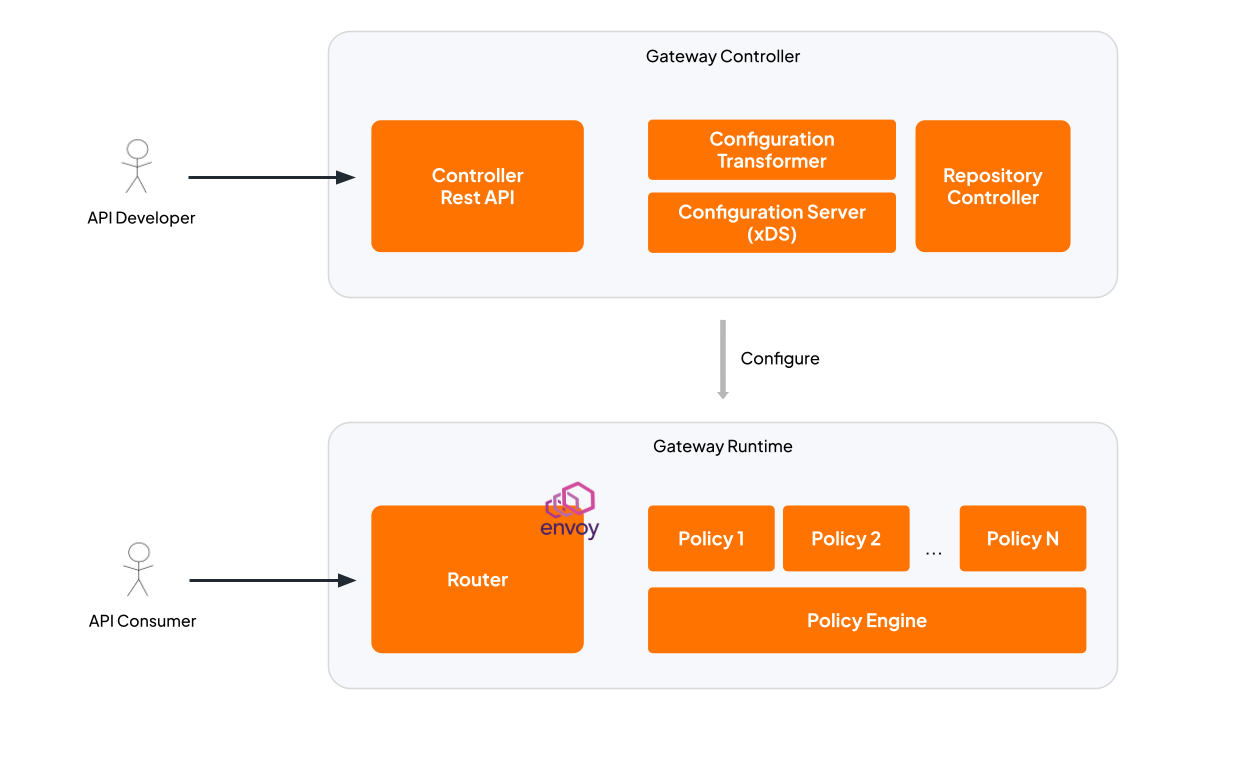
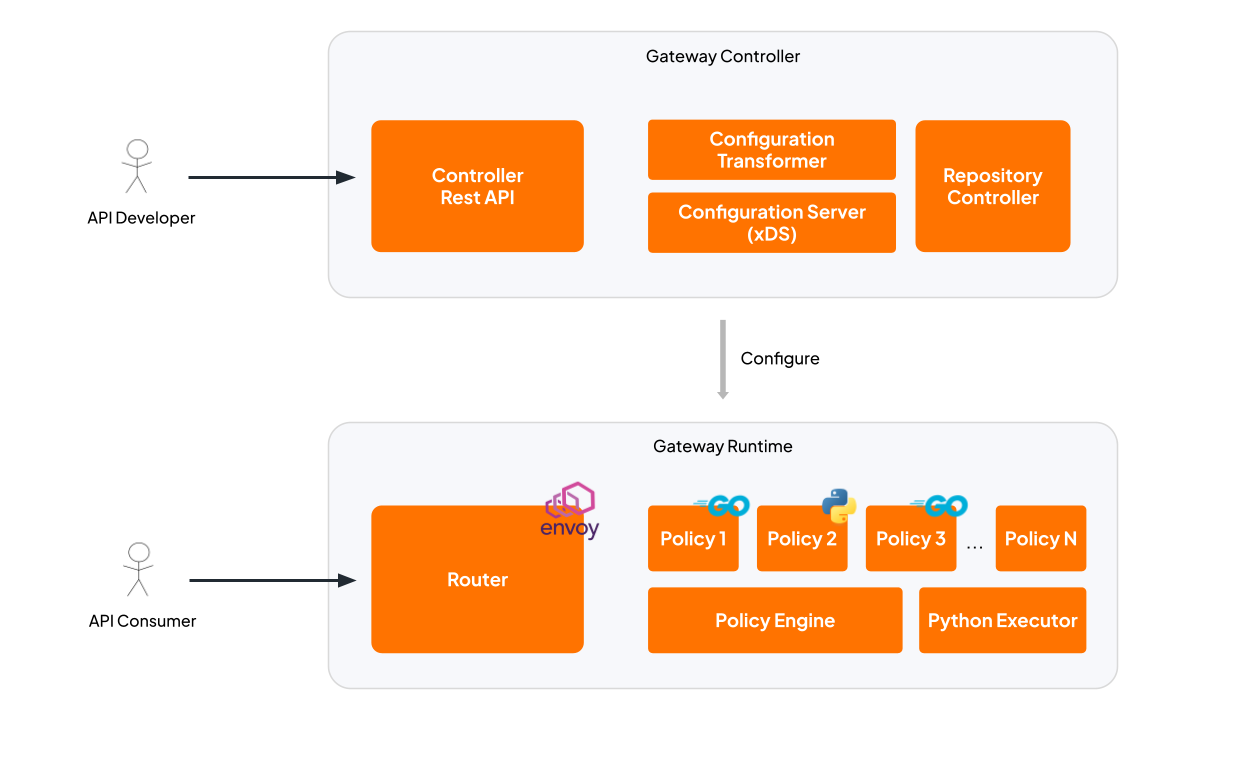
Add Python Executor and policy dev section
Document the new Python Executor as a Gateway Runtime sub-component for executing Python-based policies and add a Policy Development section that explains dual-language policy support (Go for compiled, high-performance policies; Python for dynamic AI/ML and complex transformations). Also update the gateway architecture image to reflect the new component.

Changed region(s): [[0.5222, 0.6194, 0.8909, 0.8361]]

diff --git a/docs/gateway/architecture.md b/docs/gateway/architecture.md
@@ -5,9 +5,10 @@
 The API Gateway consists of two main components: **Gateway Controller** and **Gateway Runtime**.
 
 - **Gateway Controller** is the control plane that manages API configurations and pushes them to the Gateway Runtime via the xDS protocol.
-- **Gateway Runtime** is the data plane that processes API traffic. It contains two sub-components:
+- **Gateway Runtime** is the data plane that processes API traffic. It contains three sub-components:
   - **Router** (Envoy proxy) — handles traffic routing, load balancing, and TLS termination.
   - **Policy Engine** — an ext_proc filter that executes request/response policies. Policies are compiled into the Policy Engine binary at image build time by the Gateway Builder.
+  - **Python Executor** — a dedicated runtime component that dynamically evaluates Python-based policies, allowing developers to leverage the extensive Python ecosystem for custom logic.
 
 The Gateway Controller configures the Gateway Runtime by pushing API and route configurations through xDS. When a request arrives, the Router forwards it to the Policy Engine for policy evaluation, then routes it to the upstream backend.
 
@@ -15,6 +16,13 @@ The Gateway Controller configures the Gateway Runtime by pushing API and route c
 
 ![Gateway Architecture](../images/gateway-architecture.png)
 <!-- image source: https://docs.google.com/drawings/d/1pgADdQNpNcvLrLVvV1fx2hxQOb3syoU0DEBhJd2N6Aw/edit?usp=sharing -->
+
+### Policy Development
+
+The Gateway offers a flexible, dual-language approach to policy development, empowering teams to build custom API logic tailored to their performance and ecosystem needs:
+
+- **Go:** Compiled directly into the Policy Engine binary, Go provides maximum execution performance, strict type safety, and minimal latency for critical path operations.
+- **Python:** Executed dynamically by the integrated Python Executor, Python is particularly ideal for AI/ML use cases and complex data transformations due to its extensive ecosystem support and specialized libraries.
 
 ## High Availability Setup
 
